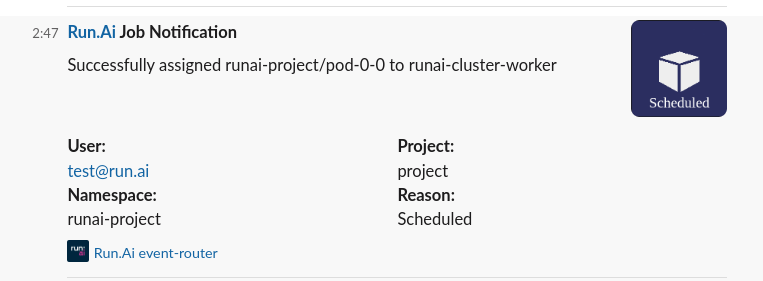
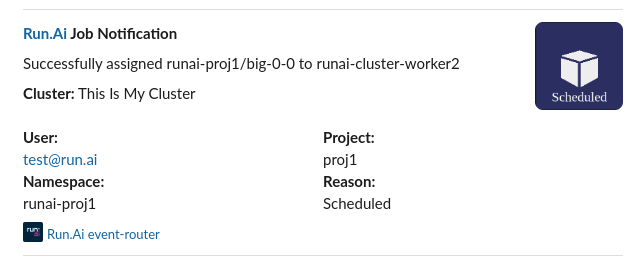
Snir/run 8081 Add cluster name support (#4)
* update urls

* add description for regex pattern

* add .

* add cluster name to config and to the notification

diff --git a/README.md b/README.md
@@ -41,6 +41,8 @@ After creating your app go to the "**OAuth & Permissions**" section in your app 
 runaiProjects: 
   - my_runai_project
 
+clusterName: ""
+
 slack:
   enabled: true
   apiToken: ""
@@ -48,6 +50,8 @@ slack:
 ```
 
 `runaiProjects` - Projects listed here will set notifications, regex pattern is supported `runai-.*` etc'...
+
+`clusterName` - Identifier for the cluster to show in the notifications
 
 **slack**
 
